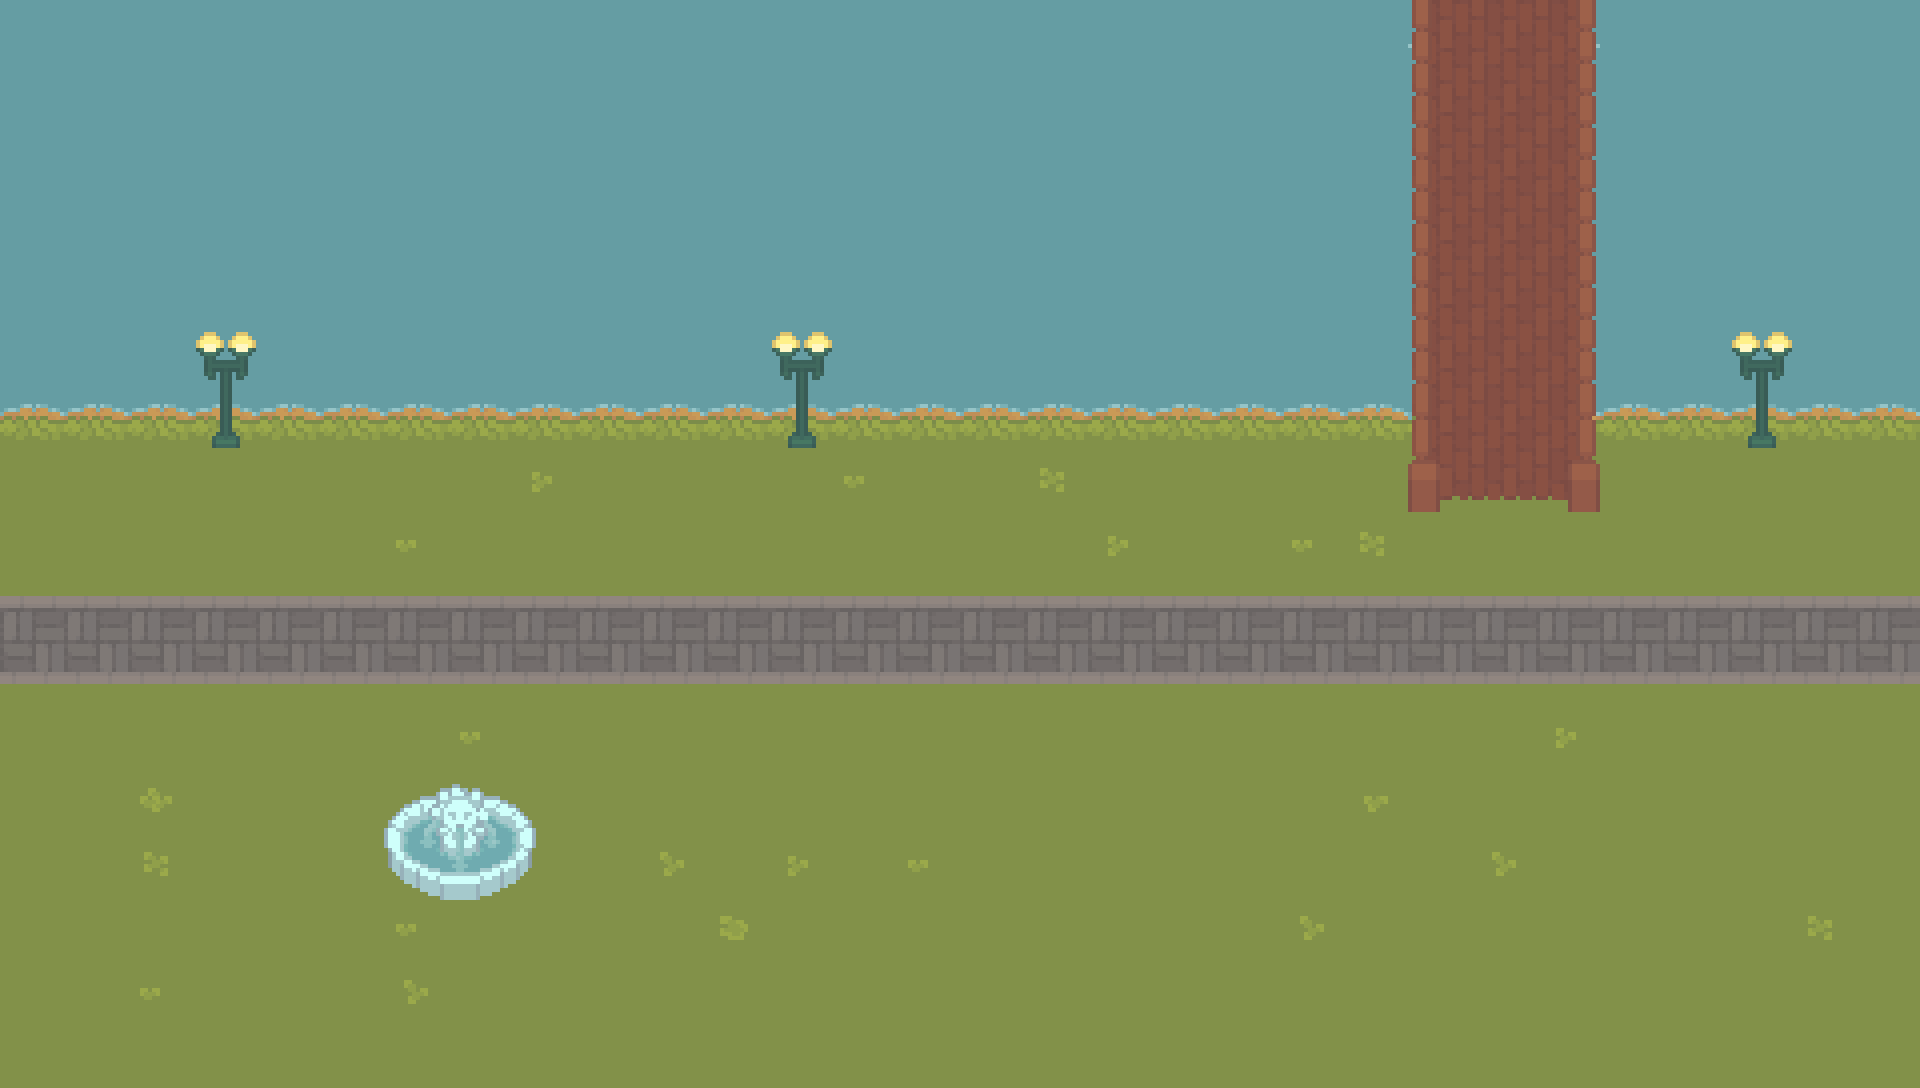
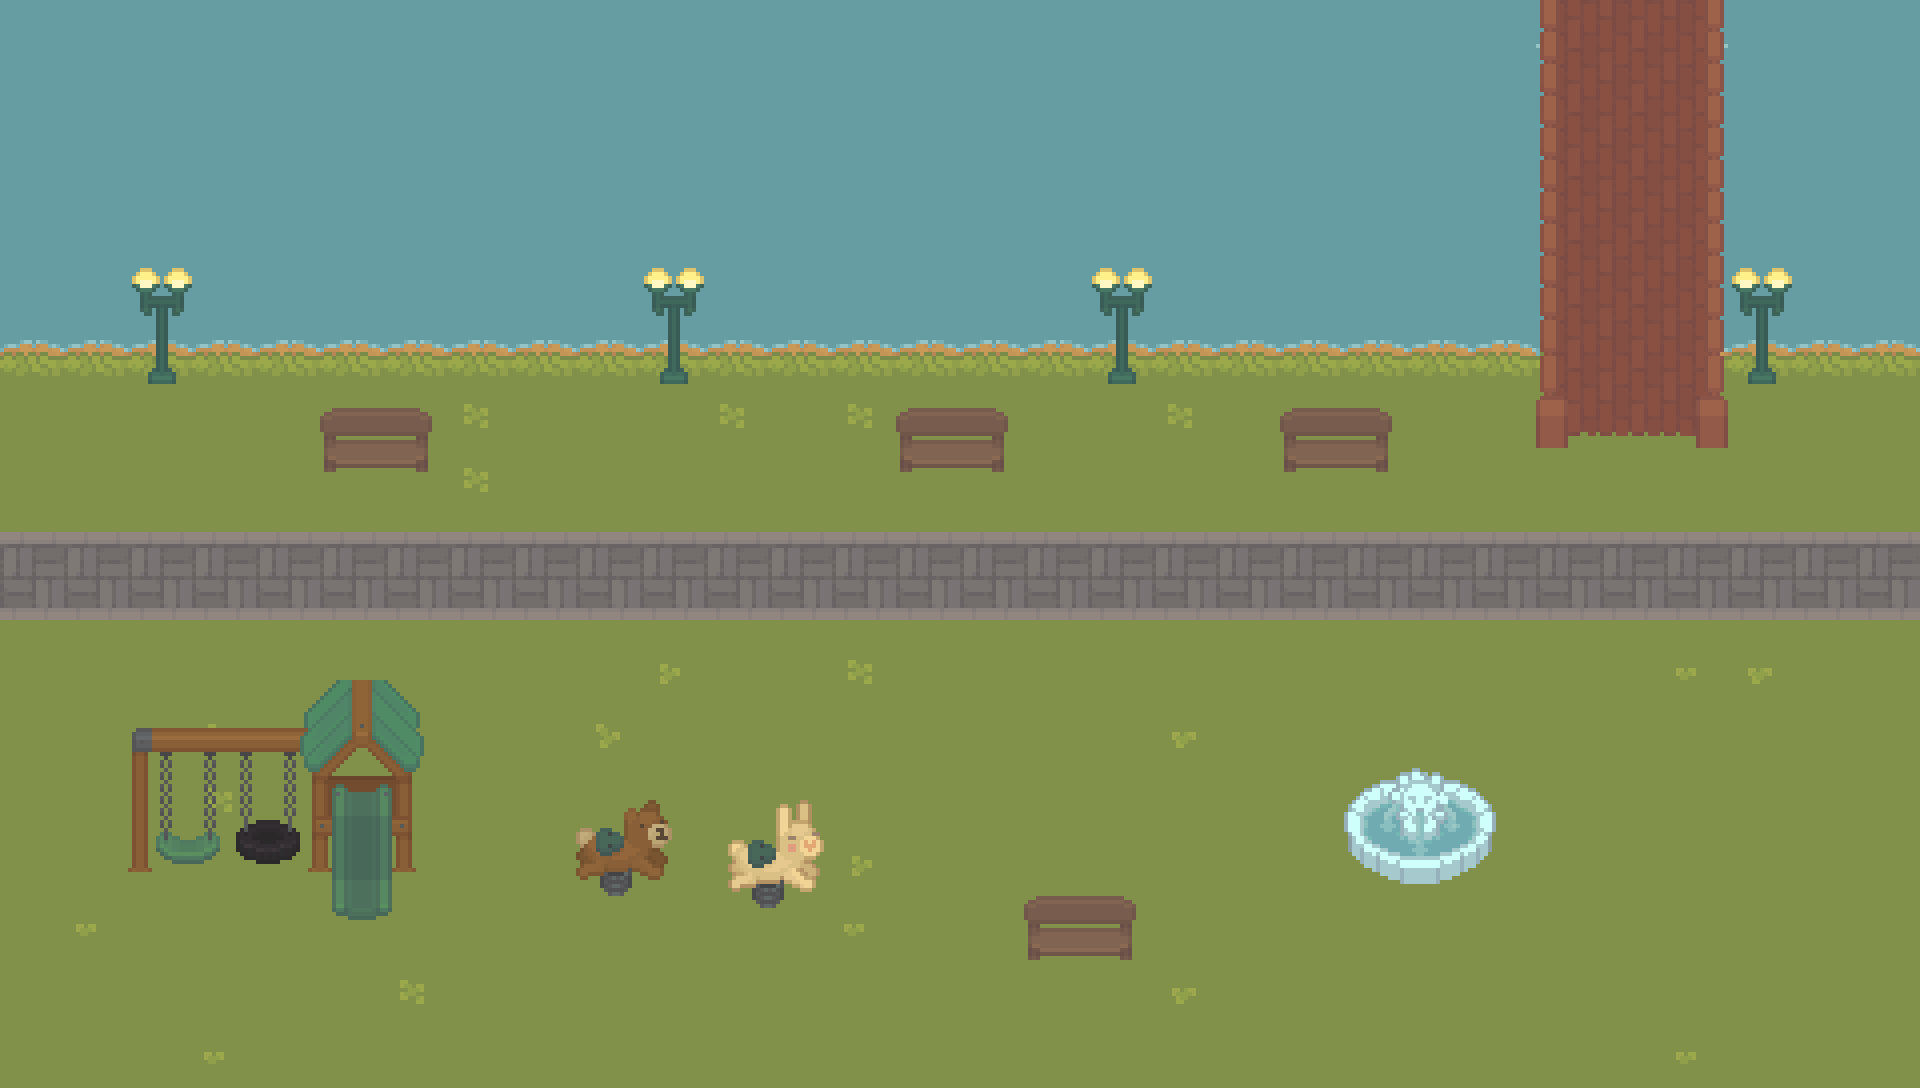
Hangang Park detail pass + dedicated phone for social content
汉江: rebuilt as a real riverside park — wider river, swing set with tire swing and slide, bear/bunny spring riders, riverside benches facing the water, bike path, four lamps, fountain, brick bridge

Phone: theqoo/KakaoTalk/Weverse/bubble blocks no longer render inline in the story log. They're routed into gameState.phoneFeed and shown in a dedicated phone modal opened from the toolbar next to 日程 (and from the header in story view). Unread items light a red badge on the button and per-app badges inside; opening and closing marks them read. KKTMessageUI gains a 'bare' mode so it doesn't draw a phone frame inside the phone.

Claude-Session: https://claude.ai/code/session_018cnFEY1npoLJdJPk9oK87k

diff --git a/src/App.tsx b/src/App.tsx
@@ -1,5 +1,5 @@
 import React, { useState, useEffect, useRef } from 'react';
-import { Send, RefreshCw, Users, Eye, MapPin, Gamepad2, Heart, Zap, Sparkles, X, ChevronUp, Globe, User, Cake, KeyRound, ArrowRight, Check, Wand2, Save, FolderOpen, Trash2 } from 'lucide-react';
+import { Send, RefreshCw, Users, Eye, MapPin, Gamepad2, Heart, Zap, Sparkles, X, ChevronUp, Globe, User, Cake, KeyRound, ArrowRight, Check, Wand2, Save, FolderOpen, Trash2, Smartphone } from 'lucide-react';
 import { motion, AnimatePresence } from 'motion/react';
 import Markdown from 'react-markdown';
 import { GameState, INITIAL_MEMBERS, ChatMessage, MessageRole, Member, TheqooPost, SetupStep } from './types';
@@ -15,7 +15,34 @@ import { seedIdolRelations, pairKey, deriveType, hasFlag, PLAYER, type Intent } 
 
 const LOCAL_STORAGE_KEY = 'star_reality_kpop_game_state';
 
-const KKTMessageUI = ({ data }: { data: any }) => (
+const KKTMessageUI = ({ data, bare }: { data: any; bare?: boolean }) => bare ? (
+  <div className="font-sans bg-[#F5F0EA] rounded-2xl overflow-hidden border border-[#DAD8EE]">
+    <div className="bg-[#FAE100] px-4 py-3 flex items-center gap-3">
+      <div className="w-8 h-8 rounded-full bg-white/30 flex items-center justify-center text-lg">{data.avatar || '👤'}</div>
+      <div>
+        <div className="text-[13px] font-black text-[#3A1F00]">{data.sender}</div>
+        <div className="text-[9px] text-[#3A1F00]/60">카카오톡</div>
+      </div>
+    </div>
+    <div className="px-4 py-4 flex flex-col gap-3 bg-[#B2C7D9]/20">
+      {data.messages?.map((msg: any, idx: number) => (
+        <div key={idx} className="flex items-end gap-2">
+          <div className="w-7 h-7 rounded-full bg-[#FAE100] flex items-center justify-center text-sm flex-shrink-0">{data.avatar || '👤'}</div>
+          <div className="flex flex-col gap-0.5 max-w-[78%]">
+            <div className="bg-white rounded-2xl rounded-tl-none px-3 py-2 shadow-sm">
+              <p className="text-[12px] text-gray-800 leading-relaxed font-medium">{msg.text}</p>
+              {msg.translation && <p className="text-[11px] text-[#454F87] mt-0.5 leading-relaxed">{msg.translation}</p>}
+            </div>
+            <div className="flex items-center gap-1 pl-1">
+              <span className="text-[9px] text-gray-400">{msg.time}</span>
+              {!msg.isRead && <span className="text-[9px] text-[#FAE100] font-black">1</span>}
+            </div>
+          </div>
+        </div>
+      ))}
+    </div>
+  </div>
+) : (
   <div className="my-6 max-w-xs mx-auto font-sans">
     <div className="relative bg-[#1A1A1A] rounded-[2.5rem] p-3 shadow-2xl">
       <div className="absolute top-4 left-1/2 -translate-x-1/2 w-16 h-4 bg-[#111] rounded-full flex items-center justify-center gap-1.5">
@@ -329,6 +356,77 @@ const MobileDrawer = ({ gameState, onClose, onSave, onLoad, onDelete, saveSlots,
         </div>
       </div>
     </motion.div>
+  );
+};
+
+// 手机：theqoo / KakaoTalk / Weverse / bubble 的专属入口
+const PHONE_APPS: { key: 'kkt' | 'weverse' | 'bubble' | 'theqoo'; label: string; icon: string; color: string }[] = [
+  { key: 'kkt', label: 'KakaoTalk', icon: '💬', color: '#FAE100' },
+  { key: 'weverse', label: 'Weverse', icon: '🌐', color: '#34C3B5' },
+  { key: 'bubble', label: 'bubble', icon: '🫧', color: '#8ec7f0' },
+  { key: 'theqoo', label: 'theqoo', icon: '🔥', color: '#3b5998' },
+];
+
+const PhoneModal = ({ feed, onClose, lang }: {
+  feed: NonNullable<GameState['phoneFeed']>; onClose: () => void; lang?: string;
+}) => {
+  const tw = lang === 'traditional';
+  const [tab, setTab] = useState<'kkt' | 'weverse' | 'bubble' | 'theqoo'>(
+    () => [...feed].reverse().find(f => !f.read)?.type || 'kkt'
+  );
+  const items = feed.filter(f => f.type === tab).slice().reverse();
+  return (
+    <div className="fixed inset-0 z-[70] bg-black/60 backdrop-blur-sm flex items-center justify-center p-3" onClick={onClose}>
+      <motion.div
+        initial={{ opacity: 0, y: 40, scale: 0.94 }} animate={{ opacity: 1, y: 0, scale: 1 }}
+        className="relative w-full max-w-sm h-[88vh] bg-[#1A1A1A] rounded-[2.8rem] p-2.5 shadow-2xl flex flex-col"
+        onClick={e => e.stopPropagation()}
+      >
+        <div className="bg-[#F3F2FA] rounded-[2.4rem] overflow-hidden flex-1 flex flex-col min-h-0 relative">
+          {/* 刘海 */}
+          <div className="absolute top-2 left-1/2 -translate-x-1/2 w-24 h-5 bg-[#111] rounded-full z-20 flex items-center justify-center gap-1.5">
+            <div className="w-2 h-2 rounded-full bg-[#333]" />
+            <div className="w-3 h-3 rounded-full bg-[#2a2a2a] border border-[#444]" />
+          </div>
+          {/* 状态栏 + 关闭 */}
+          <div className="px-6 pt-2.5 pb-1 flex items-center justify-between flex-shrink-0 relative z-10">
+            <span className="text-[10px] font-bold text-gray-500">9:41</span>
+            <button onClick={onClose} className="p-1.5 rounded-full hover:bg-[#DAD8EE] text-[#454F87]"><X className="w-4 h-4" /></button>
+          </div>
+          {/* App tabs */}
+          <div className="px-3 pb-2 pt-3 flex gap-1.5 flex-shrink-0">
+            {PHONE_APPS.map(app => {
+              const unread = feed.filter(f => f.type === app.key && !f.read).length;
+              const active = tab === app.key;
+              return (
+                <button key={app.key} onClick={() => setTab(app.key)}
+                  className={`relative flex-1 flex flex-col items-center gap-1 py-2 rounded-2xl border transition-all ${active ? 'bg-white border-[#5B6BB0] shadow-sm' : 'bg-white/50 border-transparent hover:bg-white'}`}>
+                  <span className="w-9 h-9 rounded-[0.8rem] flex items-center justify-center text-lg shadow-sm" style={{ background: app.color }}>{app.icon}</span>
+                  <span className={`text-[9px] font-black ${active ? 'text-[#2A2A3D]' : 'text-[#454F87]/70'}`}>{app.label}</span>
+                  {unread > 0 && <span className="absolute top-1 right-2 min-w-[16px] h-4 px-1 rounded-full bg-[#FF3B30] text-white text-[9px] font-black flex items-center justify-center">{unread}</span>}
+                </button>
+              );
+            })}
+          </div>
+          {/* 内容流 */}
+          <div className="flex-1 overflow-y-auto custom-scrollbar px-2 pb-4 min-h-0">
+            {items.length === 0 ? (
+              <div className="flex flex-col items-center justify-center py-16 gap-2 text-[#454F87]/60">
+                <span className="text-3xl">{PHONE_APPS.find(a => a.key === tab)?.icon}</span>
+                <span className="text-[11px] font-bold">{tw ? '還沒有內容，劇情推進後這裡會收到更新' : '还没有内容，剧情推进后这里会收到更新'}</span>
+              </div>
+            ) : items.map(item => (
+              <div key={item.id} className="[&>div]:my-2 [&>div]:max-w-full">
+                {item.type === 'kkt' && <KKTMessageUI data={item.data} bare />}
+                {item.type === 'weverse' && <WeversePostUI data={item.data} />}
+                {item.type === 'bubble' && <BubbleMessageUI data={item.data} />}
+                {item.type === 'theqoo' && <TheqooPostUI post={item.data} />}
+              </div>
+            ))}
+          </div>
+        </div>
+      </motion.div>
+    </div>
   );
 };
 
@@ -769,6 +867,7 @@ export default function App() {
   const [isLoading, setIsLoading] = useState(false);
   const [showConfirmReset, setShowConfirmReset] = useState(false);
   const [showDrawer, setShowDrawer] = useState(false);
+  const [showPhone, setShowPhone] = useState(false);
   const [isTraditional, setIsTraditional] = useState(false);
   const [showSaveSlots, setShowSaveSlots] = useState(false);
   const [worldMode, setWorldMode] = useState(true); // 俯视世界视图 ⟷ 剧情对话（临时UI，不持久化）
@@ -778,6 +877,14 @@ export default function App() {
   const worldDay = gameState.worldDay ?? 1;
   const worldSlot = gameState.worldSlot ?? 0;
   const worldLocation = gameState.worldLocation ?? 'practice_room';
+  const phoneFeed = gameState.phoneFeed || [];
+  const phoneUnread = phoneFeed.filter(f => !f.read).length;
+  const openPhone = () => setShowPhone(true);
+  const closePhone = () => {
+    setShowPhone(false);
+    // 关掉手机时全部标记已读，红点熄灭
+    setGameState(prev => ({ ...prev, phoneFeed: (prev.phoneFeed || []).map(f => (f.read ? f : { ...f, read: true })) }));
+  };
   const setWorldLocation = (loc: string) => setGameState(p => ({ ...p, worldLocation: loc }));
   const pushToast = (text: string, kind: string) => {
     const id = Date.now().toString(36) + Math.random().toString(36).slice(2, 5);
@@ -1039,6 +1146,20 @@ export default function App() {
 
       next.turnCount = (prev.turnCount || 0) + 1;
 
+      // 社媒内容（theqoo/KKT/Weverse/bubble）不进对话流 → 收进手机，亮未读红点
+      const PHONE_TYPES = ['kkt', 'weverse', 'bubble', 'theqoo'];
+      const phoneBlocks = contentBlocks.filter((b: any) => PHONE_TYPES.includes(b.type));
+      if (phoneBlocks.length > 0) {
+        next.phoneFeed = [
+          ...(next.phoneFeed || []),
+          ...phoneBlocks.map((b: any) => ({
+            id: `${Date.now()}-${Math.random().toString(36).slice(2, 7)}`,
+            type: b.type, data: b.data, ts: Date.now(), read: false,
+          })),
+        ].slice(-60);
+      }
+      const chatBlocks = contentBlocks.filter((b: any) => !PHONE_TYPES.includes(b.type));
+
       // 把选项也存入content，让AI下一轮能看到上一轮给了什么选项
       const isTraditionalMode = (prev as any).language === 'traditional' && (window as any).OpenCC;
       const tw = isTraditionalMode ? (window as any).OpenCC.Converter({ from: 'cn', to: 'twp' }) : (t: string) => t;
@@ -1058,7 +1179,7 @@ export default function App() {
             ? (window as any).OpenCC.Converter({ from: 'cn', to: 'twp' })(textContent + optionsText)
             : textContent + optionsText,
           timestamp: Date.now(),
-          contentBlocks,
+          contentBlocks: chatBlocks,
           currentMusicShow: musicResult || undefined,
           options: options.length > 0 ? options : undefined,
           isWeekEnd: snapshot?.isWeekEnd === true,
@@ -1250,6 +1371,8 @@ export default function App() {
           onClose={() => setCustomizing(null)}
         />
       )}
+      {/* 手机 */}
+      {showPhone && <PhoneModal feed={phoneFeed} onClose={closePhone} lang={lang} />}
       {/* 关系里程碑 toast */}
       {toasts.length > 0 && (
         <div className="fixed top-4 left-1/2 -translate-x-1/2 z-[200] flex flex-col items-center gap-2 pointer-events-none">
@@ -1401,6 +1524,12 @@ export default function App() {
           )}
           {apiKeyMissing && <div className="bg-[#E7E6F6] text-[#454F87] text-[10px] font-black px-3 py-1 rounded-full border border-[#DAD8EE] animate-pulse">API KEY MISSING</div>}
           <div className="flex items-center gap-3">
+            {!worldMode && !isMomMode && !isCPMode && (
+              <button onClick={openPhone} className="relative flex items-center gap-1.5 text-[11px] font-black px-3 py-1.5 rounded-xl border bg-[#E7E6F6] text-[#454F87] border-[#DAD8EE] hover:bg-[#DAD8EE] transition-all">
+                <Smartphone className="w-3.5 h-3.5" /> {lang === 'traditional' ? '手機' : '手机'}
+                {phoneUnread > 0 && <span className="absolute -top-1.5 -right-1.5 min-w-[16px] h-4 px-1 rounded-full bg-[#FF3B30] text-white text-[9px] font-black flex items-center justify-center animate-pulse">{phoneUnread}</span>}
+              </button>
+            )}
             <button
               onClick={() => setWorldMode(v => !v)}
               className={`flex items-center gap-1.5 text-[11px] font-black px-3 py-1.5 rounded-xl border transition-all ${worldMode ? 'bg-[#5B6BB0] text-white border-[#5B6BB0]' : 'bg-[#E7E6F6] text-[#454F87] border-[#DAD8EE] hover:bg-[#DAD8EE]'}`}
@@ -1463,6 +1592,8 @@ export default function App() {
             appearances={gameState.appearances || {}}
             playerAppearance={gameState.playerAppearance}
             onCustomize={setCustomizing}
+            phoneUnread={phoneUnread}
+            onOpenPhone={openPhone}
           />
         </div>
         ) : (

diff --git a/src/WorldView.tsx b/src/WorldView.tsx
@@ -1,5 +1,5 @@
 import React, { useEffect, useRef, useState } from 'react';
-import { MessageCircle, Clock, CalendarDays, ChevronRight, X, Users, Rss, Palette, Lock } from 'lucide-react';
+import { MessageCircle, Clock, CalendarDays, ChevronRight, X, Users, Rss, Palette, Lock, Smartphone } from 'lucide-react';
 import { Member } from './types';
 import { getSceneConfig } from './sceneConfig';
 import RelationPanel from './RelationPanel';
@@ -80,12 +80,14 @@ function moveToward(e: Entity, speed: number, dt: number): boolean {
 export default function WorldView({
   members, playerName, day, slot, locationId, identity, onTravel, onAdvanceTime, onTalk, lang,
   relations, intents, matchmakes, onSetIntent, onToggleMatchmake, onConfess, onIdolEncounter, worldFeed, onWatchEncounter,
-  appearances, playerAppearance, onCustomize,
+  appearances, playerAppearance, onCustomize, phoneUnread, onOpenPhone,
 }: {
   members: Member[];
   playerName: string;
   day: number; slot: number; locationId: string;
   identity: string[];
+  phoneUnread: number;
+  onOpenPhone: () => void;
   onTravel: (locId: string) => void;
   onAdvanceTime: () => void;
   onTalk: (m: Member, ctx: { location: WorldLocation; activity: Activity }) => void;
@@ -324,6 +326,10 @@ export default function WorldView({
 
       {/* 右上：日程 + 推进时间 */}
       <div className="absolute top-3 right-3 z-30 flex gap-2 flex-wrap justify-end">
+        <button onClick={onOpenPhone} className="relative px-3 py-1.5 rounded-xl bg-white/90 text-[#2A2A3D] text-[11px] font-black flex items-center gap-1.5 hover:bg-white transition-all shadow">
+          <Smartphone className="w-3.5 h-3.5" /> {tw ? '手機' : '手机'}
+          {phoneUnread > 0 && <span className="absolute -top-1.5 -right-1.5 min-w-[16px] h-4 px-1 rounded-full bg-[#FF3B30] text-white text-[9px] font-black flex items-center justify-center shadow animate-pulse">{phoneUnread}</span>}
+        </button>
         <button onClick={() => onCustomize({ kind: 'player' })} className="px-3 py-1.5 rounded-xl bg-white/90 text-[#2A2A3D] text-[11px] font-black flex items-center gap-1.5 hover:bg-white transition-all shadow">
           <Palette className="w-3.5 h-3.5" /> {tw ? '捏臉' : '捏脸'}
         </button>

diff --git a/src/types.ts b/src/types.ts
@@ -133,6 +133,8 @@ export interface GameState {
   hasContributedThisWeek?: boolean;
   hiddenSummary?: string;
   collectedCards?: any[];
+  // 手机：theqoo/KKT/Weverse/bubble 内容不进对话流，收进手机应用
+  phoneFeed?: { id: string; type: 'kkt' | 'weverse' | 'bubble' | 'theqoo'; data: any; ts: number; read: boolean }[];
   daughterProfile?: {
     name: string;
     nationality: string;
